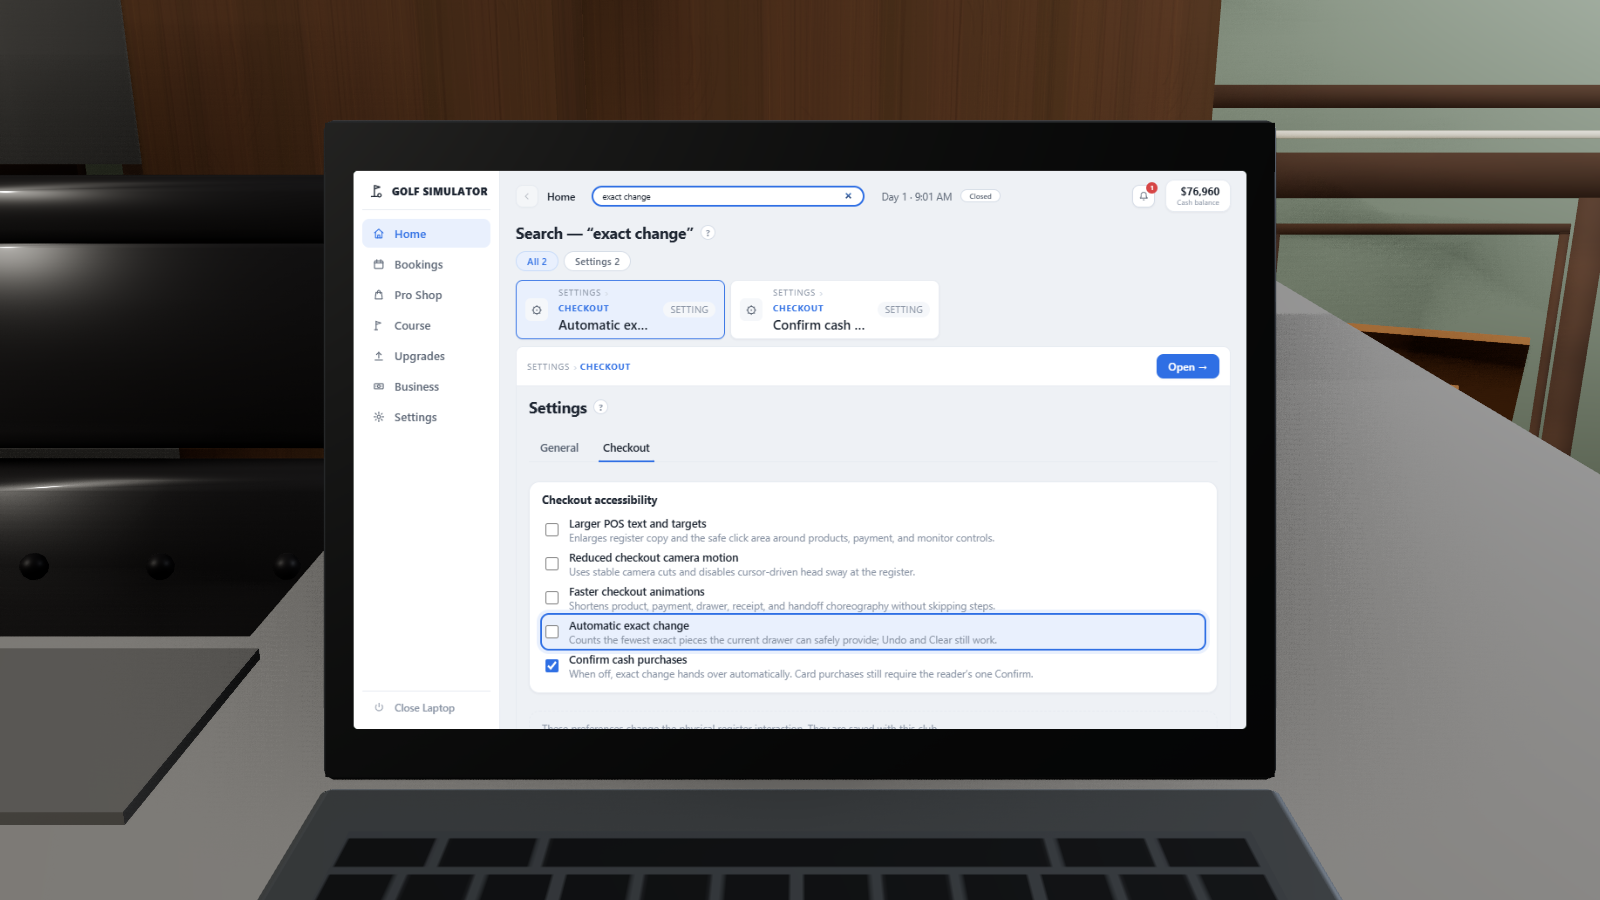
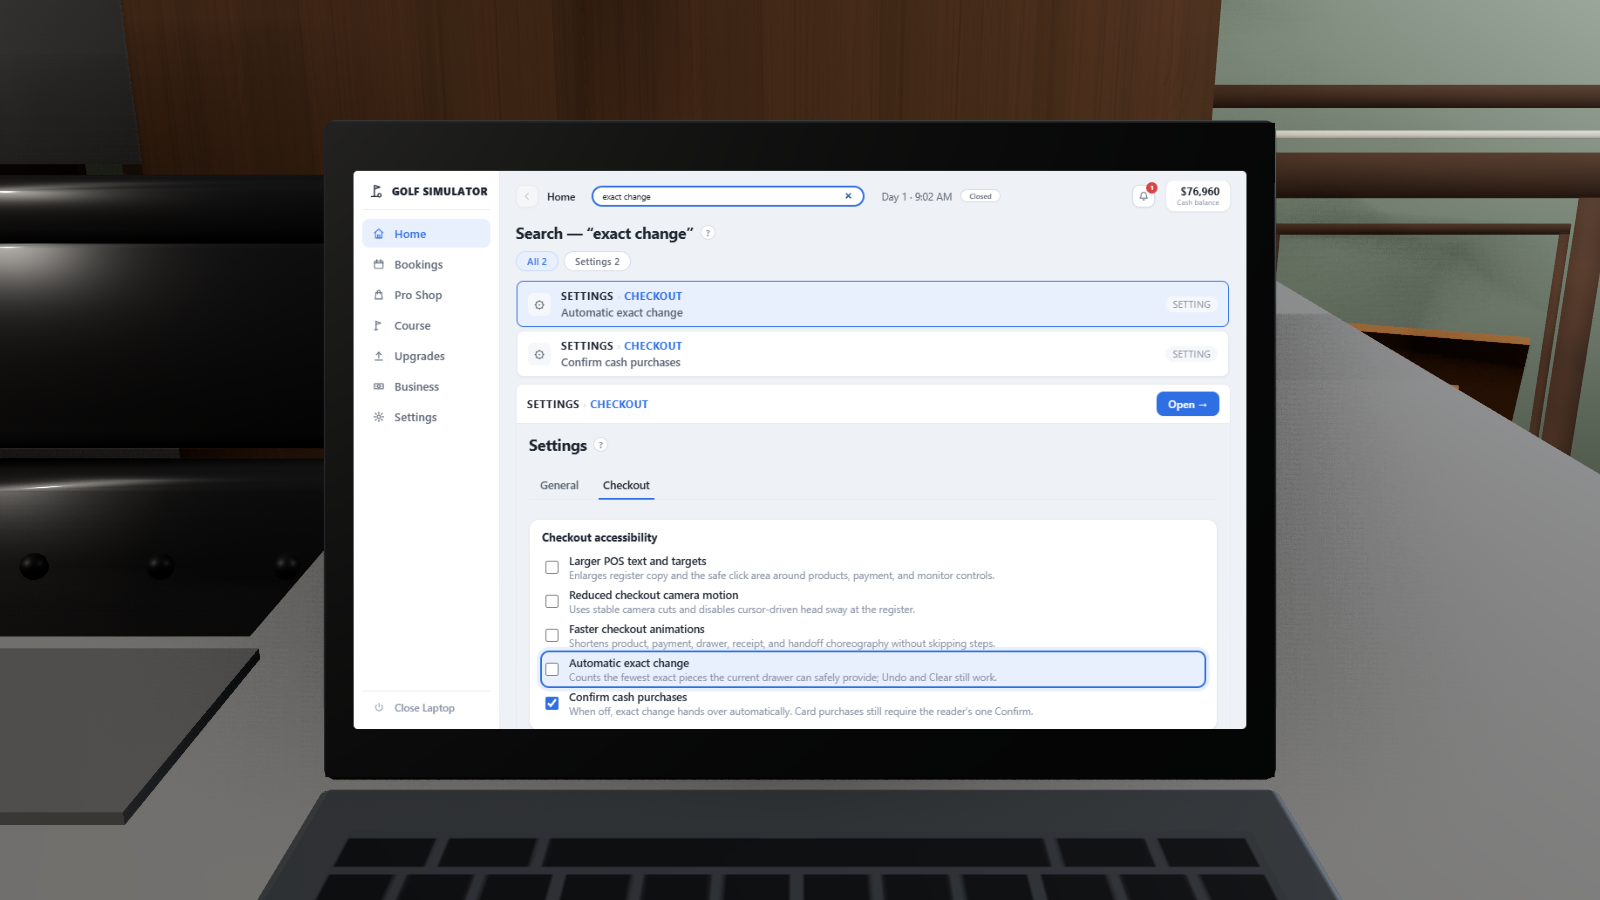
Laptop search: the kit was always first — the chip strip just cut its name off
Typing "kit" ranked the clubhouse repair kit #1 all along (aliases live in
shopItems keywords, EXACT_KEYWORD tier scores 92); the miss was the results
UI — a horizontal chip rail truncating every name at 170px ("Clubhouse
re…"), fourth result clipped off an x-scroll. Results are now location
ROWS: page path leads in small-caps with the destination crumb in the
laptop blue, item name in full beneath, kind pill right, one result per
row, internal scroll after ~4.5 rows so the live page preview stays
reachable. En route: the reveal-flash setTimeout was ref'd and re-armed
every clock tick, holding headless QA open forever — now ?.unref?.().
tests/laptop-search-index.test.js pins kit-first-named-in-full through the
real component; tools/qa/laptop-search-kit.js is the render-verified
driver. (styles.css also carries the register tooltip-chip block used by
the checkout commit that follows.)

Changed region(s): [[0.3125, 0.3111, 0.75, 0.8089], [0.7188, 0.3733, 0.7812, 0.4667], [0.7188, 0.3111, 0.75, 0.3422]]

diff --git a/tools/qa/laptop-search-kit.js b/tools/qa/laptop-search-kit.js
@@ -1,0 +1,176 @@
+async (page) => {
+  // TYPING "kit" MUST SURFACE THE CLUBHOUSE REPAIR KIT — READABLY.
+  //
+  //   node tools/qa/run-playwright.cjs tools/qa/laptop-search-kit.js
+  //
+  // Round 2, 2026-07-30: "typing 'kit' does not surface the clubhouse repair kit" and
+  // "the results UI is unreadable". The first claim is settled by reading the real rows
+  // out of the real browser; the second is geometry, so it is measured, not eyeballed:
+  // every result must be its own full-width ROW (stacked, not chips in a strip), the
+  // page path must render with real height, and the item name must not be ellipsized —
+  // scrollWidth > clientWidth is exactly the truncation the chip rail caused.
+  const fs = process.getBuiltinModule('node:fs');
+  const path = process.getBuiltinModule('node:path');
+  const repo = path.resolve(process.env.QA_REPO_ROOT || process.cwd());
+  const outDir = path.join(repo, 'qa', 'laptop-search-round2');
+  fs.mkdirSync(outDir, { recursive: true });
+  const baseUrl = process.env.QA_BASE_URL || 'http://localhost:8457/';
+  const SEED = Number(process.env.GREYBOX_SEED || 20260727);
+
+  const errs = [];
+  page.on('pageerror', (e) => errs.push(`PAGEERROR: ${e.message}`));
+  page.on('console', (m) => { if (m.type() === 'error') errs.push(`CONSOLE: ${m.text()}`); });
+
+  await page.setViewportSize({ width: 1600, height: 900 });
+  await page.goto(`${baseUrl}?clubhouse=pine-hills-v2`, { waitUntil: 'domcontentloaded' });
+  await page.waitForTimeout(600);
+  await page.evaluate(async (seed) => {
+    localStorage.clear();
+    const E = await import('/src/sim/empire.js');
+    localStorage.setItem('golfempire:autosave', JSON.stringify(E.empireSnapshot(E.newStarterEmpire('relaxed', seed))));
+  }, SEED);
+  await page.reload({ waitUntil: 'domcontentloaded' });
+  await page.waitForTimeout(900);
+  await page.getByRole('button', { name: /^Continue/ }).first().click();
+  await page.waitForFunction(() => window.__fw?.scene3d?.walk?.isActive?.(), null, { timeout: 120000 });
+  await page.waitForFunction(() => window.__fw?.scene3d?.clubhouse?.(), null, { timeout: 120000 });
+  await page.waitForTimeout(3000);
+
+  // Sit at the laptop the way the player does — the proven open sequence, retry included.
+  const openLaptop = async () => {
+    await page.evaluate(async () => {
+      const app = window.__fw;
+      const L = await import('/src/data/shopLayout.js');
+      const origin = app.scene3d.clubhouse().interior.position;
+      const st = app.scene3d.walk.state;
+      const laptop = L.FRONT_DESK.laptop;
+      const seat = { x: L.FRONT_DESK.staffChair.x, z: L.FRONT_DESK.staffChair.z };
+      st.x = seat.x + origin.x;
+      st.z = seat.z + origin.z;
+      const dx = laptop.x - seat.x;
+      const dz = laptop.z - seat.z;
+      const horizontal = Math.hypot(dx, dz) || 0.001;
+      st.yaw = Math.atan2(-dx / horizontal, -dz / horizontal);
+      st.pitch = Math.atan2(1.06 - 1.62, horizontal);
+      const clock = app.state.clock;
+      clock.minutes = Math.floor(clock.minutes / 1440) * 1440 + 9 * 60;
+      app.scene3d.applyTimeWeather(9 * 60, app.state.weather);
+    });
+    await page.waitForTimeout(800);
+    await page.keyboard.press('KeyE');
+    let open = await page.waitForFunction(() => window.__fw.laptopOpen === true, null, { timeout: 6000 })
+      .then(() => true).catch(() => false);
+    if (!open) {
+      await page.evaluate(async () => {
+        const app = window.__fw;
+        const L = await import('/src/data/shopLayout.js');
+        const origin = app.scene3d.clubhouse().interior.position;
+        const st = app.scene3d.walk.state;
+        const laptop = L.FRONT_DESK.laptop;
+        st.x = laptop.x + origin.x;
+        st.z = laptop.z + 0.95 + origin.z;
+        st.yaw = Math.atan2(0, 0.95);
+        st.pitch = Math.atan2(1.06 - 1.62, 0.95);
+      });
+      await page.waitForTimeout(700);
+      await page.keyboard.press('KeyE');
+      open = await page.waitForFunction(() => window.__fw.laptopOpen === true, null, { timeout: 9000 })
+        .then(() => true).catch(() => false);
+    }
+    await page.waitForFunction(() => {
+      const r = document.querySelector('.laptop-screen');
+      return r && r.style.display !== 'none';
+    }, null, { timeout: 15000 }).catch(() => {});
+    return open;
+  };
+  const laptopOpened = await openLaptop();
+  await page.waitForTimeout(1400);
+
+  // TYPE "kit", live, no submit.
+  const field = page.locator('.laptop-screen input.lt-search').first();
+  await field.click({ timeout: 8000 });
+  for (const ch of 'kit') {
+    await page.keyboard.type(ch, { delay: 70 });
+    await page.waitForTimeout(220);
+  }
+  await page.waitForTimeout(600);
+
+  // READ THE ROWS AND MEASURE THEM. getBoundingClientRect is post-projection (the laptop
+  // DOM sits on the 3D screen quad), which is fine for stacking order and relative width;
+  // scrollWidth/clientWidth are layout pixels, which is exactly where ellipsis happens.
+  const rows = await page.evaluate(() => {
+    const rail = document.querySelector('.lt-hitrail');
+    const railBox = rail ? rail.getBoundingClientRect() : null;
+    const list = [...document.querySelectorAll('.lt-hit')].map((row) => {
+      const name = row.querySelector('.lt-hitname');
+      const pathEl = row.querySelector('.lt-hitpath');
+      const box = row.getBoundingClientRect();
+      return {
+        name: name ? name.textContent : null,
+        nameTruncated: !!name && name.scrollWidth > name.clientWidth + 1,
+        crumbs: [...row.querySelectorAll('.lt-hitcrumb')].map((n) => n.textContent),
+        pathHasHeight: !!pathEl && pathEl.getBoundingClientRect().height > 1,
+        kind: (row.querySelector('.lt-hitkind') || {}).textContent || null,
+        box: { x: Math.round(box.x), y: Math.round(box.y), w: Math.round(box.width), h: Math.round(box.height) },
+      };
+    });
+    return {
+      railBox: railBox && {
+        x: Math.round(railBox.x), y: Math.round(railBox.y), w: Math.round(railBox.width), h: Math.round(railBox.height),
+      },
+      list,
+      previewBarPresent: !!document.querySelector('.lt-previewbar'),
+      previewPresent: !!document.querySelector('.lt-searchpreview'),
+    };
+  });
+
+  await page.screenshot({ path: path.join(outDir, 'kit-1-viewport.png') });
+  const screen = page.locator('.laptop-screen');
+  if (await screen.count()) {
+    await screen.first().screenshot({ path: path.join(outDir, 'kit-2-screen.png') }).catch(() => {});
+  }
+
+  const list = rows.list;
+  const kitIndex = list.findIndex((r) => r.name === 'Clubhouse repair components');
+  const kitRow = kitIndex >= 0 ? list[kitIndex] : null;
+
+  // ONE RESULT PER ROW is a claim about stacking: each row starts below the previous
+  // one's vertical middle. Chips in a strip share a baseline and fail this.
+  let stacked = list.length > 0;
+  for (let i = 1; i < list.length; i++) {
+    if (list[i].box.y < list[i - 1].box.y + list[i - 1].box.h * 0.6) { stacked = false; break; }
+  }
+  // …and each row spans the rail, rather than sitting in a 240 px chip.
+  const fullWidth = !!rows.railBox && list.length > 0
+    && list.every((r) => r.box.w >= rows.railBox.w * 0.9);
+
+  // Findings are BOOLEANS ONLY — ok is every(v === true), and a row count in here
+  // once made a fully green run report ok:false.
+  const findings = {
+    laptopOpened,
+    anyRows: list.length > 0,
+    repairKitPresent: kitIndex >= 0,
+    repairKitFirst: kitIndex === 0,
+    repairKitNameUntruncated: !!kitRow && kitRow.nameTruncated === false,
+    repairKitPathShown: !!kitRow && kitRow.pathHasHeight && kitRow.crumbs.length >= 2,
+    everyRowNamesItsPage: list.length > 0 && list.every((r) => r.crumbs.length >= 1 && r.pathHasHeight),
+    noNameTruncatedAnywhere: list.length > 0 && list.every((r) => r.nameTruncated === false),
+    oneResultPerRow: stacked,
+    rowsSpanTheList: fullWidth,
+    previewStillWorks: rows.previewBarPresent && rows.previewPresent,
+  };
+
+  const result = {
+    what: 'round 2 — "kit" surfaces the clubhouse repair kit, one readable location row per result',
+    findings,
+    rowsShown: list.length,
+    rows: list,
+    railBox: rows.railBox,
+    kitIndex,
+    shots: ['kit-1-viewport.png', 'kit-2-screen.png'],
+    errs: errs.slice(0, 12),
+    ok: Object.values(findings).every((v) => v === true) && errs.length === 0,
+  };
+  fs.writeFileSync(path.join(outDir, 'laptop-search-kit.json'), `${JSON.stringify(result, null, 2)}\n`);
+  return result;
+}

diff --git a/src/styles.css b/src/styles.css
@@ -1123,6 +1123,36 @@ button.build-swatch.selected { color: #fff; border-color: #d2b86f; box-shadow: 0
   to { opacity: 1; transform: translateY(0); }
 }
 
+/* The register's diegetic tooltip chip — the reference's floating price-bubble
+   idea in the game's own toast language. One small fixed-position chip that
+   follows the hovered drawer well / offered payment; a notch points at it. */
+.register-tip {
+  position: fixed;
+  z-index: 40;
+  pointer-events: none;
+  background: rgba(20, 30, 16, 0.95);
+  border: 1px solid var(--line);
+  border-radius: 8px;
+  padding: 6px 12px;
+  font-size: 0.78rem;
+  font-weight: 600;
+  white-space: nowrap;
+  box-shadow: var(--shadow);
+  animation: toast-in 0.12s ease-out;
+}
+.register-tip::after {
+  content: '';
+  position: absolute;
+  left: 14px;
+  bottom: -6px;
+  width: 10px;
+  height: 10px;
+  transform: rotate(45deg);
+  background: rgba(20, 30, 16, 0.95);
+  border-right: 1px solid var(--line);
+  border-bottom: 1px solid var(--line);
+}
+
 .market-dialog { max-width: min(980px, 94vw); }
 .market-overview {
   display: grid;
@@ -2543,57 +2573,55 @@ body.register-mode .view-toggle { display: none !important; }
 .lt-shiptrade { font-size: 0.86em; color: var(--lt-dim); margin-top: 1px; }
 .lt-shipfee { font-variant-numeric: tabular-nums; font-weight: 600; }
 
-/* SEARCH RESULTS READ AS LOCATIONS.
+/* SEARCH RESULTS READ AS LOCATIONS — ONE PER ROW.
    Reported 2026-07-29: "Fix the UI so a result reads as a location, not a bare row."
-   The crumbs sit ABOVE the name in small caps, so the eye reads where-then-what; the whole
-   row is the button, so there is nothing to aim at; and the chevron on the right says the
-   row goes somewhere, which a plain list item does not. */
+   Round 2, 2026-07-30: the preview rework had compacted results into a horizontal strip
+   of 240 px chips — names ellipsized ("Clubhouse re…"), the fourth hit off the edge of
+   an x-scroll — which is how "kit" stopped visibly surfacing the repair kit it had in
+   fact ranked first. Now every result is its own full-width row: the PAGE PATH is the
+   lead line (where the thing lives), the item name sits under it in quieter type, and
+   past four-and-a-bit rows the list scrolls internally so the preview panel below
+   stays in reach. */
 .lt-hitfilters { display: flex; flex-wrap: wrap; gap: 6px; margin-bottom: 10px; }
-.lt-hitlist { display: flex; flex-direction: column; gap: 6px; }
+.lt-hitrail {
+  display: flex; flex-direction: column; gap: 4px;
+  max-height: 246px; overflow-y: auto; padding: 1px 2px 4px 1px;
+  scrollbar-width: thin;
+}
 .lt-hit {
-  display: flex; align-items: center; gap: 12px; width: 100%; text-align: left;
-  padding: 9px 12px; font: inherit; color: var(--lt-ink); cursor: pointer;
+  display: flex; align-items: center; gap: 12px; width: 100%; flex: 0 0 auto;
+  text-align: left; padding: 8px 12px; font: inherit; color: var(--lt-ink); cursor: pointer;
   background: var(--lt-panel); border: 1px solid var(--lt-edge); border-radius: 8px;
   box-shadow: var(--lt-shadow);
 }
 .lt-hit:hover { border-color: var(--lt-blue); background: #fbfdff; }
 .lt-hit:focus-visible { outline: 2px solid var(--lt-blue); outline-offset: 1px; }
+.lt-hit.on { border-color: var(--lt-blue); background: var(--lt-bluebg); }
 .lt-hitmark {
   width: 26px; height: 26px; flex: 0 0 26px; display: flex; align-items: center;
   justify-content: center; border-radius: 6px; background: var(--lt-panel2); color: var(--lt-sub);
 }
 .lt-hitbody { display: flex; flex-direction: column; min-width: 0; flex: 1 1 auto; }
+/* The path is the PROMINENT line — bold small caps in ink, destination crumb in the
+   accent — so the eye reads where-then-what. */
 .lt-hitpath {
   display: flex; align-items: center; gap: 4px; flex-wrap: wrap;
-  font-size: 0.68em; letter-spacing: 0.06em; text-transform: uppercase; color: var(--lt-dim);
+  font-size: 0.78em; font-weight: 700; letter-spacing: 0.06em; text-transform: uppercase;
+  color: var(--lt-ink);
 }
-.lt-hitcrumblast { color: var(--lt-blue); font-weight: 700; }
-/* The chevron is not a letter, so it does not take the crumbs' tracking — with it applied the
-   glyph collapsed to something that read as a middot on the physical lid. */
-.lt-hitsep { color: var(--lt-edge2); letter-spacing: 0; font-size: 1.15em; line-height: 1; }
+.lt-hitcrumblast { color: var(--lt-blue); }
+/* The chevron is not a letter, so it does not take the crumbs' tracking or weight — with
+   them applied the glyph collapsed to something that read as a middot on the physical lid. */
+.lt-hitsep { color: var(--lt-edge2); letter-spacing: 0; font-weight: 400; font-size: 1.15em; line-height: 1; }
+/* …and the name is the secondary line: what answered the query, under where it lives. */
 .lt-hitname {
-  font-weight: 600; margin-top: 2px;
-  overflow: hidden; text-overflow: ellipsis; white-space: nowrap;
-}
-.lt-hitdetail {
-  font-size: 0.82em; color: var(--lt-sub); margin-top: 1px;
+  font-size: 0.85em; font-weight: 500; color: var(--lt-sub); margin-top: 2px;
   overflow: hidden; text-overflow: ellipsis; white-space: nowrap;
 }
 .lt-hitkind {
   font-size: 0.7em; letter-spacing: 0.05em; text-transform: uppercase; color: var(--lt-dim);
   background: var(--lt-panel2); border-radius: 999px; padding: 2px 8px; flex: 0 0 auto;
 }
-.lt-hitgo { color: var(--lt-dim); flex: 0 0 auto; font-size: 1.1em; }
-
-/* THE PREVIEW IS THE PAGE (2026-07-30). The rail compacts into chips; the panel
-   below renders the selected hit's real page DOM — same head, same cards. */
-.lt-hitrail {
-  display: flex; gap: 6px; overflow-x: auto; padding-bottom: 4px;
-  scrollbar-width: thin;
-}
-.lt-hitrail .lt-hit { width: auto; flex: 0 0 auto; max-width: 240px; padding: 6px 10px; }
-.lt-hitrail .lt-hit.on { border-color: var(--lt-blue); background: var(--lt-bluebg); }
-.lt-hitrail .lt-hitname { max-width: 170px; }
 .lt-previewbar {
   display: flex; align-items: center; gap: 10px;
   padding: 8px 12px; margin-top: 4px;

diff --git a/src/ui/laptop.js b/src/ui/laptop.js
@@ -3405,7 +3405,11 @@ export function makeLaptop(app, opts) {
           if (typeof target.scrollIntoView === 'function') {
             try { target.scrollIntoView({ block: 'center' }); } catch { target.scrollIntoView(); }
           }
-          setTimeout(() => target.classList.remove('lt-searchhit'), 2600);
+          // unref, like liveTimer: under headless QA the live clock re-renders an open
+          // search every second and every render re-arms this flash — a ref'd timer here
+          // is a self-sustaining chain that holds Node open forever. In the browser
+          // setTimeout returns a number, so ?.unref?.() is a no-op.
+          setTimeout(() => target.classList.remove('lt-searchhit'), 2600)?.unref?.();
           return target;
         }
       }
@@ -3434,17 +3438,20 @@ export function makeLaptop(app, opts) {
   // A RESULT ROW IS A LOCATION, NOT A NAME.
   //
   // Reported 2026-07-29: "Fix the UI so a result reads as a location, not a bare row."
-  // So the crumbs are the first thing in the row's text block, in their own type, and
-  // the row is a single button — the whole thing is the target, not a "Go" chip at the
-  // far right that the player has to aim at.
+  // Round 2, 2026-07-30: the preview rework had squeezed these into 240 px chips in a
+  // horizontal strip, which ellipsized "Clubhouse repair components" to "Clubhouse re…"
+  // — the top hit for "kit", ranked first and unreadable. So it is ONE RESULT PER ROW
+  // again (.lt-hitrail is a capped vertical list in styles.css), the page path is the
+  // row's prominent lead line, and the item name sits under it in secondary type. The
+  // row is a single button — the whole thing is the target.
   function searchResultRow(hit, index) {
     const crumbs = el('span', { class: 'lt-hitpath' });
     (hit.path || []).forEach((part, i) => {
       if (i) crumbs.appendChild(el('span', { class: 'lt-hitsep', text: '›' }));
       crumbs.appendChild(el('span', { class: `lt-hitcrumb ${i === (hit.path.length - 1) ? 'lt-hitcrumblast' : ''}`, text: part }));
     });
-    // A chip: clicking it swaps the live preview underneath to this hit's real
-    // page. Open (in the preview bar) is what navigates.
+    // Clicking a row swaps the live preview underneath to this hit's real page.
+    // Open (in the preview bar) is what navigates.
     return el('button', {
       class: `lt-hit ${index === searchSelection ? 'on' : ''}`,
       title: `Preview ${formatPagePath(hit.target.page, hit.target.tab, hit.target.pathExtra)}`,

diff --git a/tests/laptop-search-index.test.js b/tests/laptop-search-index.test.js
@@ -290,6 +290,24 @@ test('typing produces results with no submit, and every row names its page', () 
   assert.equal(crumbs[0], 'Pro Shop', `the top hit for "deliveries" should live in the Pro Shop, not ${crumbs}`);
 });
 
+test('typing "kit" surfaces the clubhouse repair kit FIRST, named in full, as a location', () => {
+  // Round 2, 2026-07-30: "typing kit does not surface the clubhouse repair kit." It did —
+  // ranked first — but the chip rail ellipsized the label, so from the chair it did not
+  // exist. tests/laptop-search.test.js pins the ranking on a synthetic catalogue mapping;
+  // this drives the REAL component end to end: the live index must carry the SKU's alias
+  // keywords (shopItems.js) and the first rendered row must be the kit, path and all.
+  const lap = openLaptop(livedInClub());
+  typeQuery(lap, 'kit');
+  const rows = collect(lap.root, 'lt-hit');
+  assert.ok(rows.length > 0, 'typing "kit" must produce results');
+  const first = rows[0];
+  assert.equal(first.querySelectorAll('.lt-hitname')[0]?.textContent, 'Clubhouse repair components',
+    'the item the ceiling prompt calls "the clubhouse kit" must be the FIRST row');
+  const crumbs = first.querySelectorAll('.lt-hitcrumb').map((n) => n.textContent);
+  assert.equal(crumbs[0], 'Pro Shop', `the kit's row must lead with where it lives, not ${crumbs}`);
+  assert.ok(crumbs.length >= 2, 'the path names the tab as well as the page');
+});
+
 test('a chip previews the REAL page; Open navigates and flashes the row', () => {
   // 2026-07-30: "make it show the actual thing." A chip click renders the
   // destination page's own DOM into the preview panel — same builder, live
